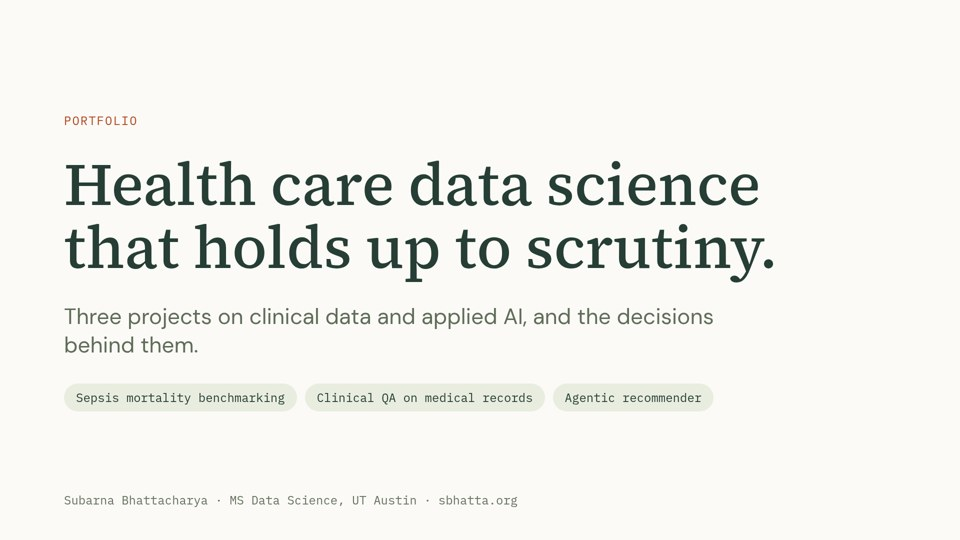
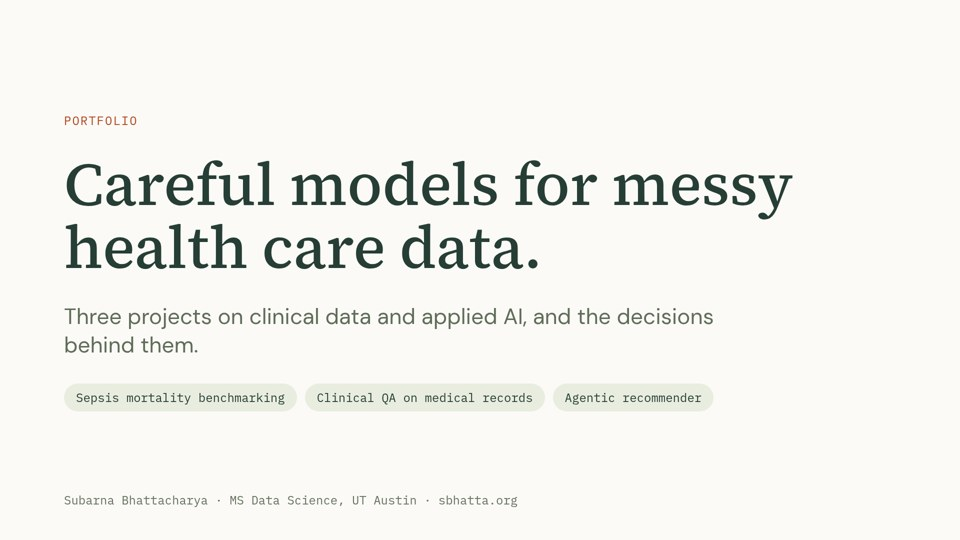
Deck: new cover title

Changed region(s): [[0.0625, 0.4148, 0.8125, 0.5333], [0.0625, 0.2963, 0.8438, 0.4148]]

diff --git a/deck/index.html b/deck/index.html
@@ -42,7 +42,7 @@ body.stack #nav { display: none; }
 <div id="stage">
 <section id="cover" data-transition="fade" style="display:flex; flex-direction:column; gap:48px; justify-content:center; padding:128px 128px 160px; background:#fbfaf6">
   <p style="font-family:'IBM Plex Mono', 'Courier New', monospace; font-size:24px; letter-spacing:2px; text-transform:uppercase; color:#b4441f">Portfolio</p>
-  <h1 style="width:1500px; font-family:'Source Serif 4', Georgia, serif; font-size:120px; font-weight:500; line-height:1.05; color:#263e35">Health care data science that holds up to scrutiny.</h1>
+  <h1 style="width:1500px; font-family:'Source Serif 4', Georgia, serif; font-size:120px; font-weight:500; line-height:1.05; color:#263e35">Careful models for messy health care data.</h1>
   <p style="width:1400px; font-family:'DM Sans', Arial, sans-serif; font-size:44px; line-height:1.3; color:#5f6c59">Three projects on clinical data and applied AI, and the decisions behind them.</p>
   <div style="display:flex; flex-direction:row; gap:16px">
     <p style="padding:12px 24px; font-family:'IBM Plex Mono', 'Courier New', monospace; font-size:24px; color:#263e35; background:#e9eddf; border-radius:256px">Sepsis mortality benchmarking</p>

diff --git a/_deck/slides/cover.html b/_deck/slides/cover.html
@@ -1,6 +1,6 @@
 <section id="cover" data-transition="fade" style="display:flex; flex-direction:column; gap:48px; justify-content:center; padding:128px 128px 160px; background:#fbfaf6">
   <p style="font-family:'IBM Plex Mono', 'Courier New', monospace; font-size:24px; letter-spacing:2px; text-transform:uppercase; color:#b4441f">Portfolio</p>
-  <h1 style="width:1500px; font-family:'Source Serif 4', Georgia, serif; font-size:120px; font-weight:500; line-height:1.05; color:#263e35">Health care data science that holds up to scrutiny.</h1>
+  <h1 style="width:1500px; font-family:'Source Serif 4', Georgia, serif; font-size:120px; font-weight:500; line-height:1.05; color:#263e35">Careful models for messy health care data.</h1>
   <p style="width:1400px; font-family:'DM Sans', Arial, sans-serif; font-size:44px; line-height:1.3; color:#5f6c59">Three projects on clinical data and applied AI, and the decisions behind them.</p>
   <div style="display:flex; flex-direction:row; gap:16px">
     <p style="padding:12px 24px; font-family:'IBM Plex Mono', 'Courier New', monospace; font-size:24px; color:#263e35; background:#e9eddf; border-radius:256px">Sepsis mortality benchmarking</p>
